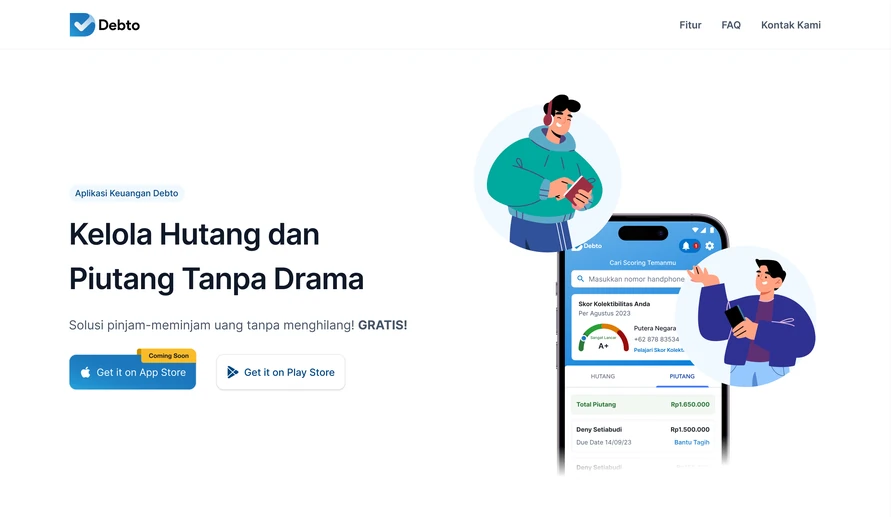
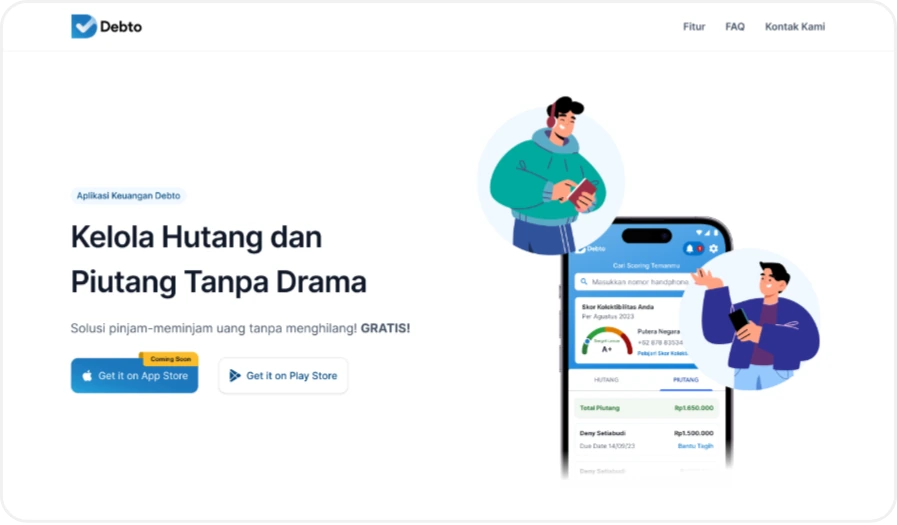
Work: use Mirza's own Figma exports for DEBTO, Farm Asisten and ADARO
Claude-Session: https://claude.ai/code/session_01Jpa9WR54ZrUBp9eGvoBvEw

diff --git a/index.html b/index.html
@@ -322,10 +322,8 @@
   .debto{display:flex;gap:10px}
   .debto > div{flex:1;display:flex;flex-direction:column;gap:10px}
   .work .shot img{image-rendering:auto}
-  .shot.stroke{box-shadow:0 0 0 1px #F1F1F1}
-  .shot.stroke:hover{box-shadow:0 0 0 1px #F1F1F1,0 12px 28px -12px rgba(30,29,27,.22)}
-  html.dark .shot.stroke{box-shadow:0 0 0 1px rgba(255,255,255,.08)}
-  html.dark .shot.stroke:hover{box-shadow:0 0 0 1px rgba(255,255,255,.08),0 12px 28px -12px rgba(0,0,0,.6)}
+  .shot.ext{overflow:visible;border-radius:9px}
+  .shot.ext img{width:calc(100% + 2px);max-width:none;margin:-1px}
 
   /* Connect */
   .chips{display:flex;gap:12px;flex-wrap:wrap;padding-top:20px}
@@ -570,11 +568,11 @@
       <div class="t-sub" style="max-width:484px">Financial management application specifically designed to record and manage debts and receivables</div>
       <div class="media debto">
         <div>
-          <div class="shot stroke" data-cap="DEBTO — Landing page"><img src="assets/work-debto-1.webp" alt="Debto landing page" loading="lazy"></div>
-          <div class="shot stroke" data-cap="DEBTO — App store screens"><img src="assets/work-debto-3.webp" alt="Debto app screens" loading="lazy"></div>
+          <div class="shot ext" data-cap="DEBTO — Landing page"><img src="assets/work-debto-1.webp" alt="Debto landing page" loading="lazy"></div>
+          <div class="shot ext" data-cap="DEBTO — App store screens"><img src="assets/work-debto-3.webp" alt="Debto app screens" loading="lazy"></div>
         </div>
         <div>
-          <div class="shot stroke" data-cap="DEBTO — Features"><img src="assets/work-debto-2.webp" alt="Debto features" loading="lazy"></div>
+          <div class="shot ext" data-cap="DEBTO — Features"><img src="assets/work-debto-2.webp" alt="Debto features" loading="lazy"></div>
         </div>
       </div>
     </div>
@@ -583,7 +581,7 @@
       <div class="media debto" style="padding-top:10px">
         <div>
           <div class="shot" data-cap="Farm Asisten — Mobile app"><img src="assets/work-adaro-mobile.webp" alt="Farm Asisten mobile app screens" loading="lazy"></div>
-          <div class="shot" data-cap="ADARO — Control room web"><img src="assets/work-adaro-web.webp" alt="Fleet dashboard web" loading="lazy"></div>
+          <div class="shot plain" data-cap="ADARO — Control room web"><img src="assets/work-adaro-web.webp" alt="Fleet dashboard web" loading="lazy"></div>
         </div>
         <div>
           <div class="shot plain" data-cap="ADARO — Driver tablet"><img src="assets/work-adaro-tablet.webp" alt="Driver tablet app" loading="lazy"></div>
